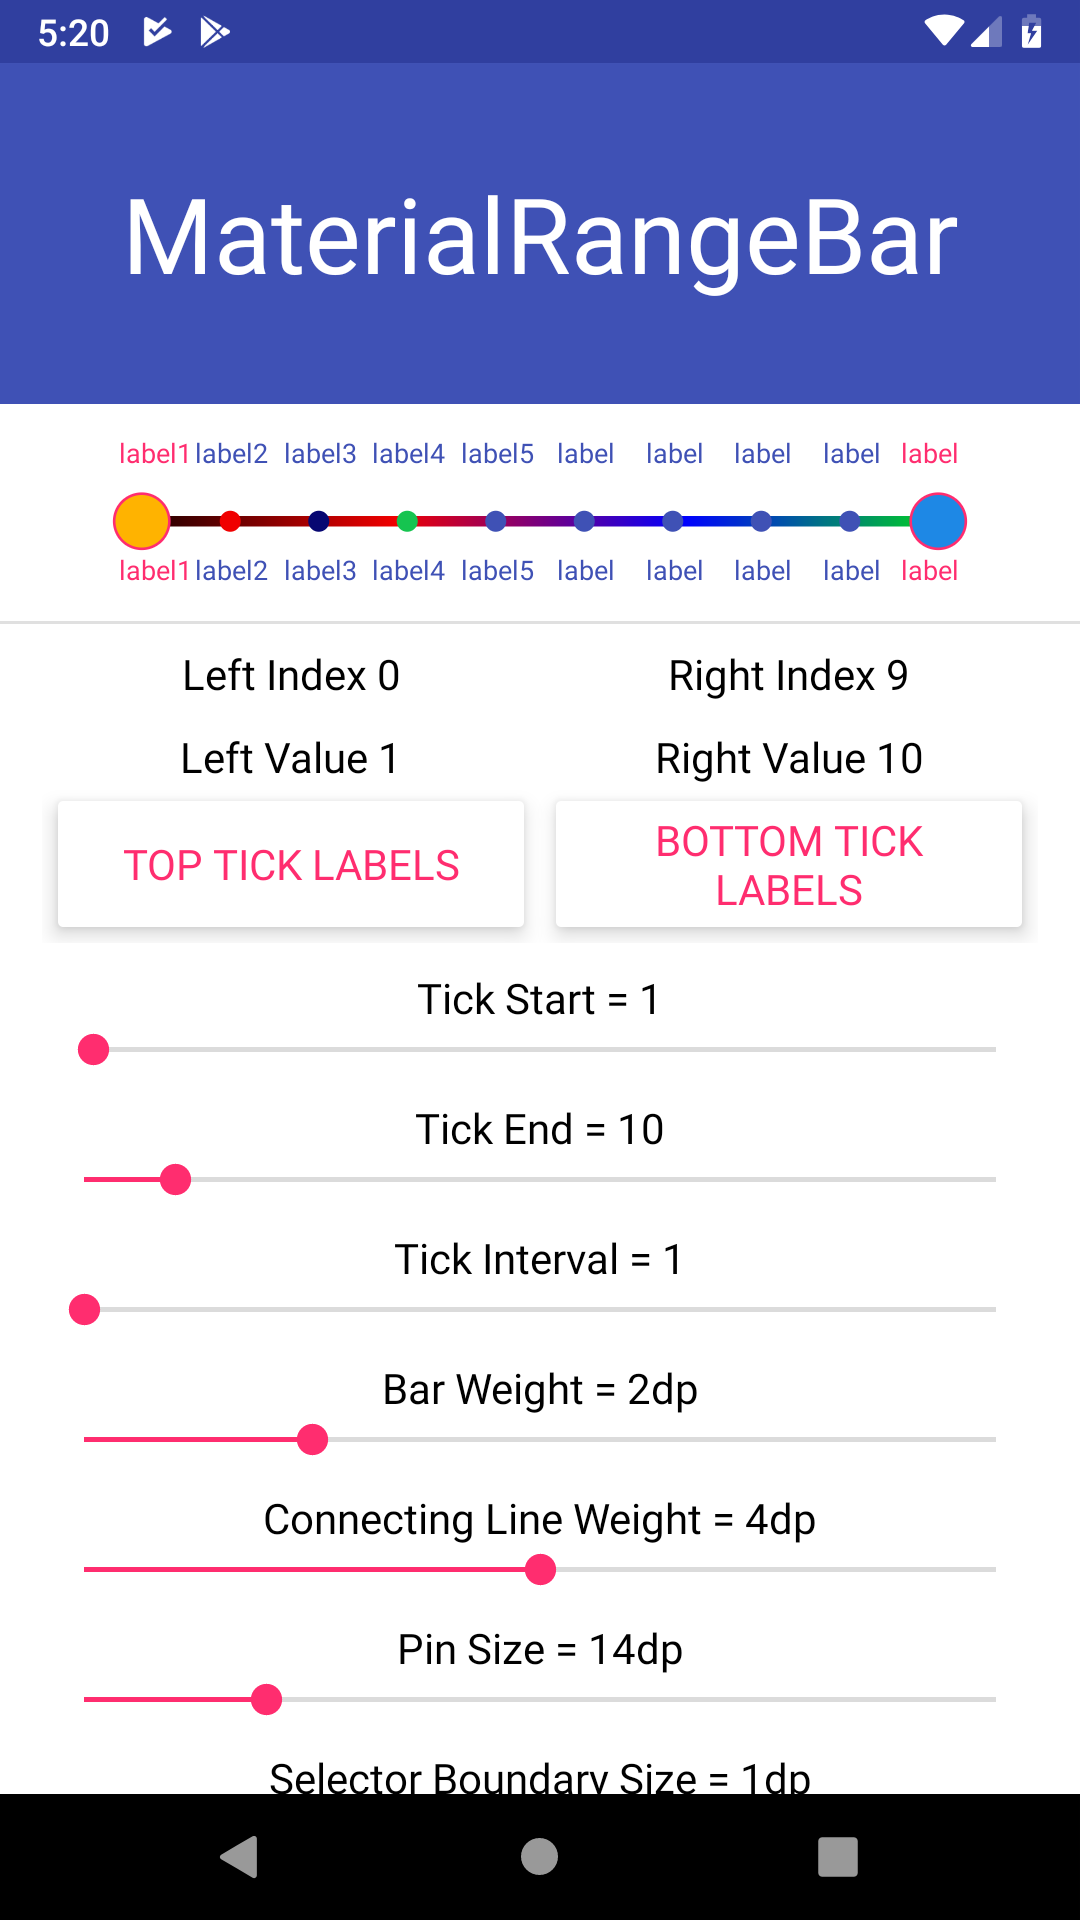
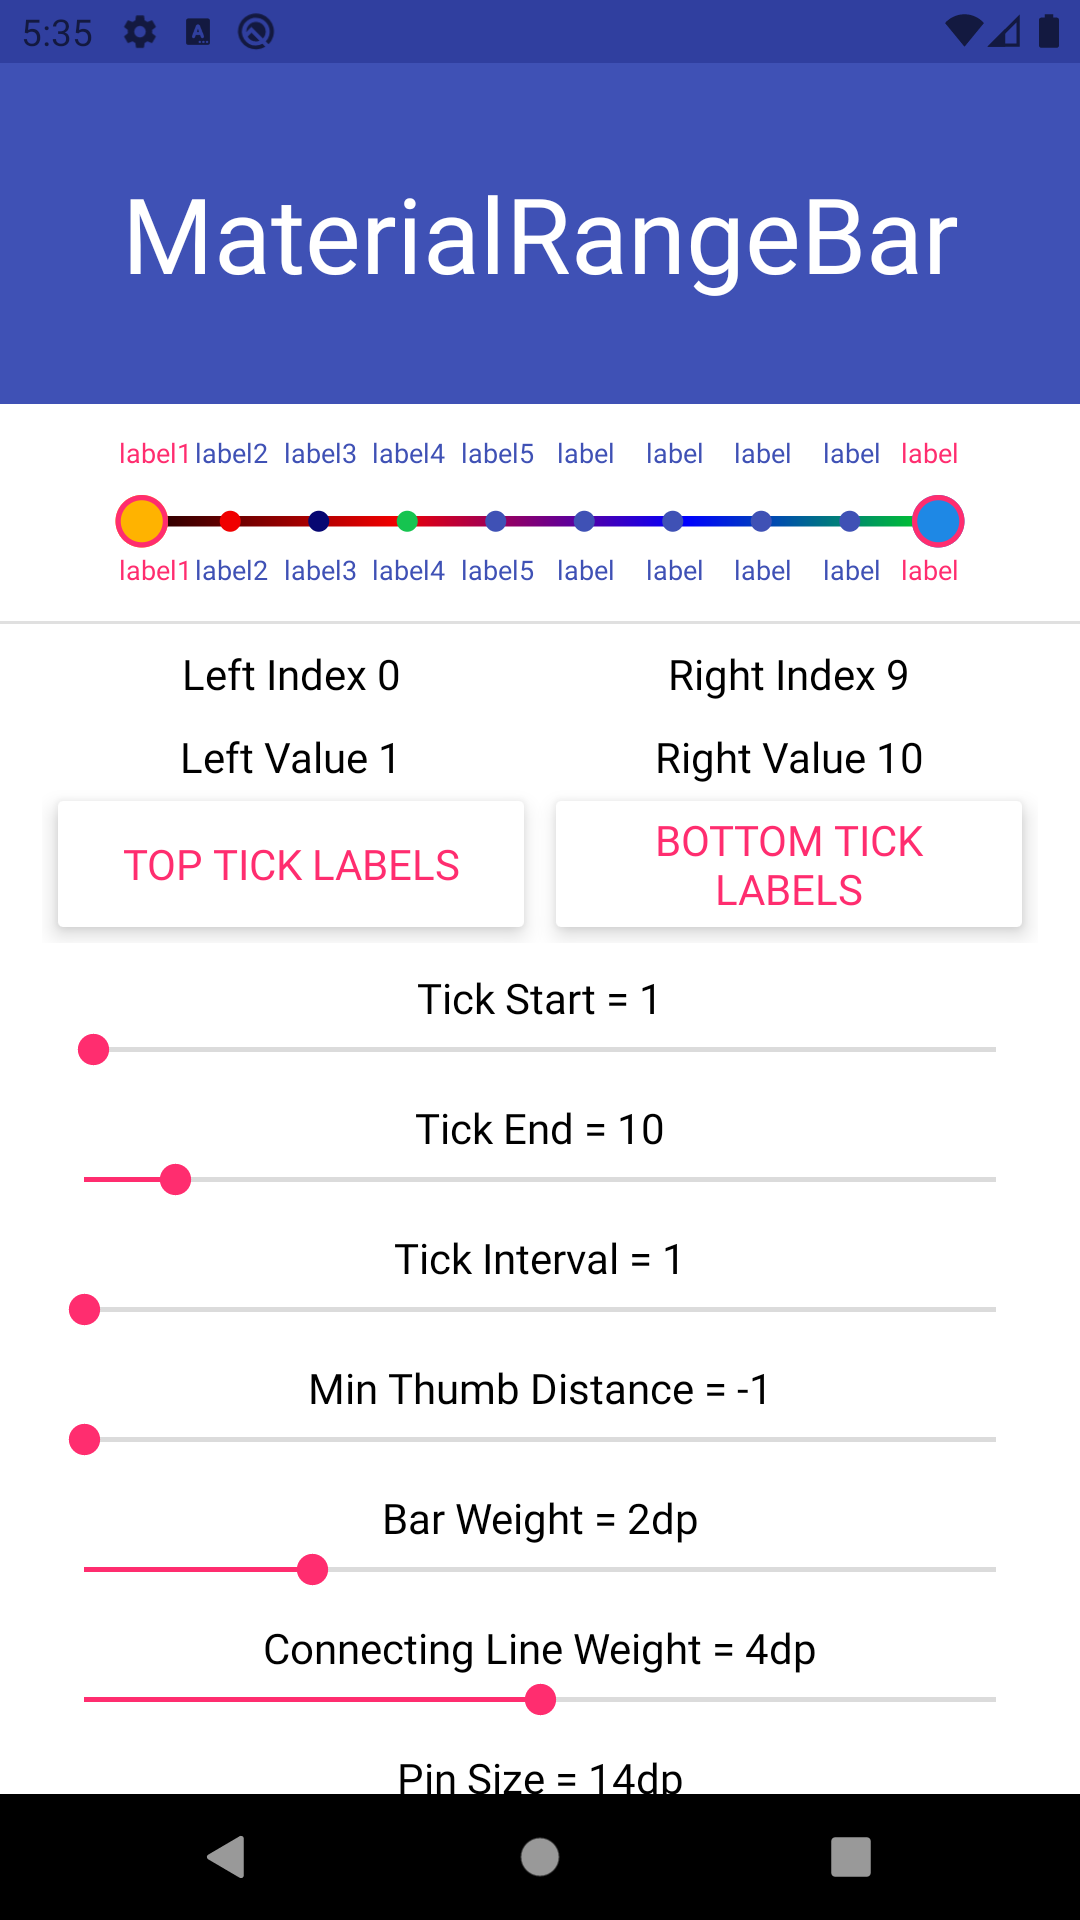
Updated Sample and readme.md

diff --git a/README.md b/README.md
@@ -12,8 +12,6 @@ Supported on API Level 12 and above for animations.
 
 ![Img](https://github.com/oli107/material-range-bar/blob/master/Screenshots/materialrangebar_demo.gif)
 
-Developers can customize the following attributes (both via XML and programatically):
-
 ### Change Log
 ```
 1.4.8 - Added mrb_minThumbDistance for specifying distances between 2 thumbs. All the selector properties are renamed to thumb.
@@ -33,6 +31,7 @@ Developers can customize the following attributes (both via XML and programatica
 0.0.1 - 0.0.7 - Initial releases.
 ```
 
+Developers can customize the following attributes (both via XML and programatically)
 ### Tick Properties
 ```
 mrb_tickStart | float
@@ -88,7 +87,7 @@ mrb_thumbBoundaryColor | reference or color
 mrb_thumbBoundarySize | dimension
 ```
 
-### Selector Properties (Replaced by Thumb Properties since version 1.4.8)
+### Selector Properties (Deprecated & Replaced by Thumb Properties since version 1.4.8)
 ```
 mrb_selectorColor | reference or color
 mrb_leftSelectorColor | reference or color
